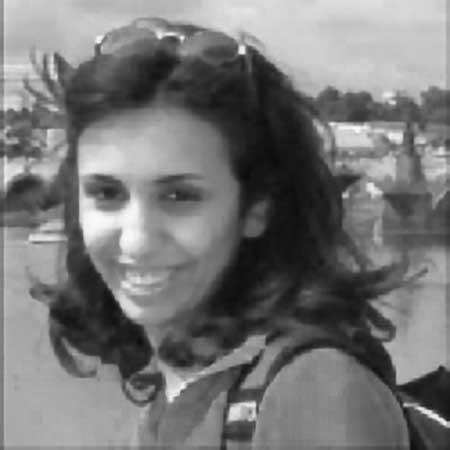
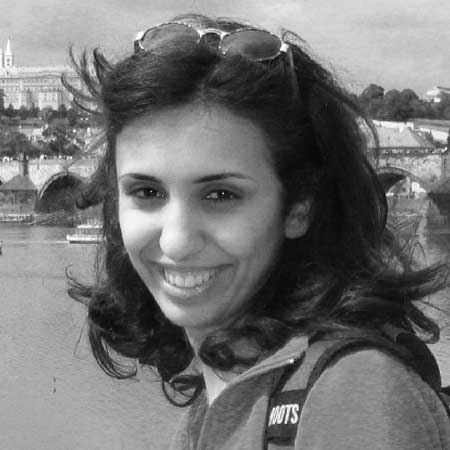
updated images for mouna and stella

diff --git a/about.html b/about.html
@@ -147,7 +147,7 @@ $( document ).ready( function() {
             <div class="credits-text"><h3>Xavier Lecours-Boucher</h3></div>
           </div> 
           <div class="credits-box">
-            <img src="images/LORIS-team-blank.jpg">
+            <img src="images/LORIS-team-stella-lee.jpg">
             <div class="credits-text"><h3>Stella Lee</h3></div>
           </div>
           <div class="credits-box">
